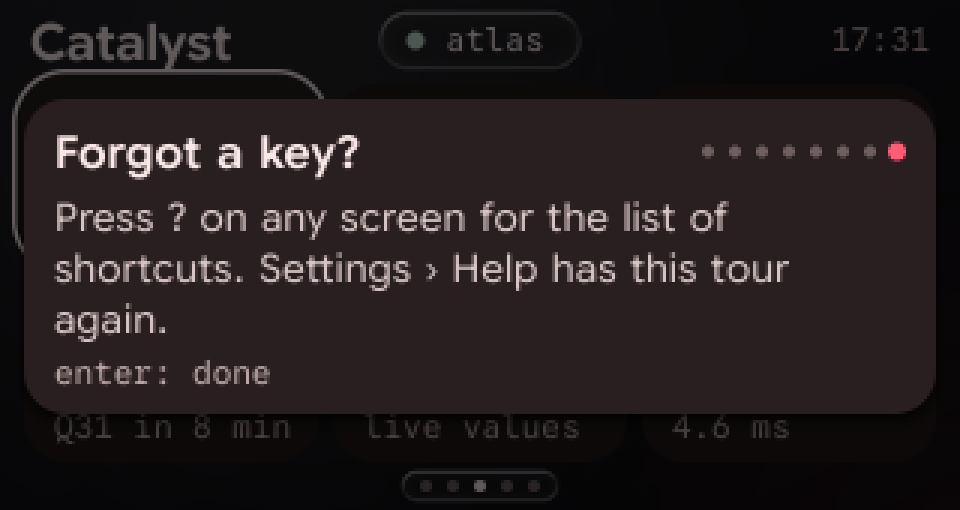
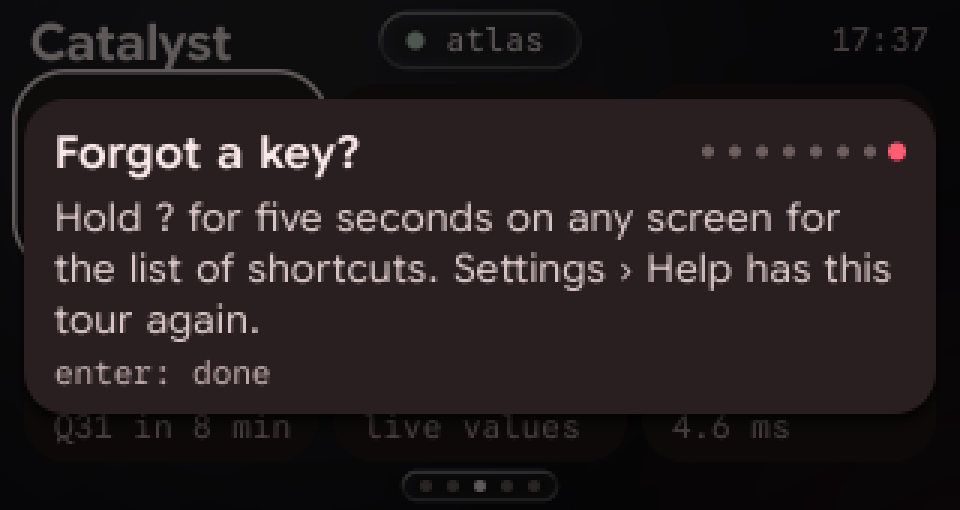
? opens the shortcut list only when held for five seconds
A ? typed in passing must never bring the list up. On a screen not taking
text, ? now does nothing unless it is held: a held key keeps coming as it
repeats, and once it has come without a break (no gap over 0.5 s) for five
seconds the list opens. From the first second the island counts down
("shortcuts in 3 s"), and the countdown goes if ? is let go early. Held
over the list itself, nothing more happens. Where text is typed (search, a
text field, the terminal) ? is only ever typed, held or not.

The tour, the shortcut list, Settings > Help and the README say so. The
hold is timed by the shell's own clock, and tested: a few quick ?s, three
seconds held, five held, held again over the list, and held in search.
Tests pass on Windows and as the ARM build.

diff --git a/userland/apps/shell/src/shell.rs b/userland/apps/shell/src/shell.rs
@@ -500,7 +500,28 @@ pub struct Shell {
     places: crate::help::Places,
     /// Developer options › Show key presses: the last few keys, and how long each has shown.
     echo: Vec<(String, f32)>,
+    /// The shell's own clock, in seconds, which `?` being held is timed by.
+    clock: f32,
+    /// `?` held on a screen not taking text: since when, when it last came
+    /// (a held key keeps coming, repeating), the countdown last said, and
+    /// whether the shortcut list has opened.
+    help_hold: Option<HelpHold>,
 }
+
+#[derive(Clone, Copy)]
+struct HelpHold {
+    since: f32,
+    last: f32,
+    said: u32,
+    opened: bool,
+}
+
+/// How long `?` is held to bring up the shortcut list, so a `?` typed in
+/// passing never does.
+const HOLD_FOR_SHORTCUTS: f32 = 5.0;
+/// A held key repeats; a gap longer than this means it was let go. (The
+/// first repeat comes 0.4 s after the press.)
+const HELD_GAP: f32 = 0.5;
 
 /// How long a key shown by Show key presses stays, the last part fading.
 const ECHO_SECONDS: f32 = 1.6;
@@ -585,7 +606,38 @@ impl Shell {
             tour_after: None,
             places: crate::help::Places::default(),
             echo: Vec::new(),
+            clock: 0.0,
+            help_hold: None,
         }
+    }
+
+    /// `?` came, on a screen not taking text. Held for five seconds, it
+    /// brings up the shortcut list; the island counts the last seconds
+    /// down. A `?` pressed and let go does nothing.
+    fn question_mark(&mut self) {
+        let now = self.clock;
+        let mut hold = match self.help_hold {
+            Some(h) if now - h.last <= HELD_GAP => HelpHold { last: now, ..h },
+            _ => HelpHold { since: now, last: now, said: 0, opened: false },
+        };
+        // Over the list itself, holding ? does nothing more.
+        if self.top_title() == "Shortcuts" {
+            hold.opened = true;
+        }
+        let held = now - hold.since;
+        if !hold.opened && held >= HOLD_FOR_SHORTCUTS {
+            hold.opened = true;
+            self.help_hold = Some(hold);
+            self.message = None;
+            return self.open(Box::new(crate::help::Shortcuts::new()), Path::Slide);
+        }
+        // Held a second or more: say what holding on will do.
+        let left = (HOLD_FOR_SHORTCUTS - held).ceil() as u32;
+        if !hold.opened && held >= 1.0 && left != hold.said {
+            hold.said = left;
+            self.say(format!("shortcuts in {left} s"));
+        }
+        self.help_hold = Some(hold);
     }
 
     /// Take the tour now, over whatever is showing (Home, after setup or from
@@ -792,12 +844,13 @@ impl Shell {
         if key == Key::Ctrl(' ') {
             return self.set_control(true);
         }
-        // ? brings the shortcut list up over any screen that is not taking
-        // text (in a terminal or a text field, it types).
+        // ? held for five seconds brings the shortcut list up over any
+        // screen that is not taking text (in a terminal or a text field, it
+        // types as ever).
         if key == Key::Char('?') {
             let (top, _) = self.stack.last().expect("the home screen is always there");
-            if !top.wants_text() && !top.full_screen() && top.title() != "Shortcuts" {
-                return self.open(Box::new(crate::help::Shortcuts::new()), Path::Slide);
+            if !top.wants_text() && !top.full_screen() {
+                return self.question_mark();
             }
         }
         // The living wallpaper: a move sets its light drifting the same way,
@@ -1119,6 +1172,15 @@ impl Shell {
 
     /// Advance time. Returns whether a frame should be drawn.
     pub fn tick(&mut self, dt: f32) -> bool {
+        self.clock += dt;
+        // `?` let go: its hold is over, and a countdown it left in the island goes.
+        if let Some(hold) = self.help_hold.filter(|h| self.clock - h.last > HELD_GAP) {
+            self.help_hold = None;
+            if !hold.opened && self.message.as_ref().is_some_and(|(text, _)| text.starts_with("shortcuts in")) {
+                self.message = None;
+                self.dirty = true;
+            }
+        }
         self.gfx.tick_gpu();
         self.watch_link(dt);
         // Motion only moves forward in time if it was already moving; slower
@@ -2530,21 +2592,50 @@ pub(crate) mod tests {
     }
 
     #[test]
-    fn question_mark_brings_up_the_shortcuts_except_where_it_types() {
+    fn question_mark_held_five_seconds_brings_up_the_shortcuts() {
         let mut shell = shell();
         frames(&mut shell, 30, FRAME);
-        shell.key(Key::Char('?'));
+        // Held, a key keeps coming: the first repeat 0.4 s in, then every
+        // 75 ms (here a little slower, every four frames).
+        let hold = |shell: &mut Shell, seconds: f32| {
+            shell.key(Key::Char('?'));
+            frames(shell, 24, FRAME);
+            let mut held = 0.4;
+            while held < seconds {
+                shell.key(Key::Char('?'));
+                frames(shell, 4, FRAME);
+                held += 4.0 * FRAME;
+            }
+        };
+        // Typed in passing, even a few at once: nothing at all.
+        for _ in 0..3 {
+            shell.key(Key::Char('?'));
+            frames(&mut shell, 40, FRAME);
+        }
+        assert_eq!(title(&shell), "Catalyst");
+        assert!(shell.message.is_none(), "not even a word");
+        // Held three seconds: not yet, but the island says what holding on will do.
+        hold(&mut shell, 3.0);
+        assert_eq!(title(&shell), "Catalyst");
+        assert!(shell.message.as_ref().is_some_and(|(m, _)| m == "shortcuts in 2 s" || m == "shortcuts in 3 s"), "{:?}", shell.message);
+        frames(&mut shell, 60, FRAME);
+        assert!(shell.message.is_none(), "let go, the countdown goes");
+        // Held five: the list.
+        hold(&mut shell, 5.3);
         frames(&mut shell, 60, FRAME);
         assert_eq!(title(&shell), "Shortcuts");
-        shell.key(Key::Char('?'));
+        // Held again over it: it stays, and no second list comes.
+        hold(&mut shell, 6.0);
         frames(&mut shell, 60, FRAME);
-        assert_eq!(title(&shell), "Catalyst", "? again puts it away");
-        // In search, ? is typed.
+        assert_eq!((title(&shell), shell.stack.len()), ("Shortcuts".to_owned(), 2));
+        shell.key(Key::Back);
+        frames(&mut shell, 60, FRAME);
+        assert_eq!(title(&shell), "Catalyst");
+        // Where text is typed, ? is typed, held or not.
         shell.key(Key::Char(' '));
         frames(&mut shell, 60, FRAME);
         let searching = title(&shell);
-        shell.key(Key::Char('?'));
-        frames(&mut shell, 60, FRAME);
+        hold(&mut shell, 5.5);
         assert_eq!(title(&shell), searching);
     }
 

diff --git a/userland/apps/shell/src/help.rs b/userland/apps/shell/src/help.rs
@@ -1,6 +1,6 @@
 //! Help: a tour of the keys, offered once after first-boot setup and always
-//! from Settings › Help, and the list of keyboard shortcuts, which `?` brings
-//! up over any screen that is not taking text.
+//! from Settings › Help, and the list of keyboard shortcuts, which `?` held
+//! for five seconds brings up over any screen that is not taking text.
 
 use bezel::{Align, Color, Rect};
 use detent::{role, Animated};
@@ -47,7 +47,7 @@ const STEPS: [Step; 8] = [
     Step { spot: Spot::Pager, title: "Pages", words: "Home turns its pages as you go. Left of the first app is the glance page: the robot and this handheld at a glance." },
     Step { spot: Spot::Nothing, title: "Control centre", words: "Ctrl Space brings it down over any screen: Wi-Fi, light mode, brightness. Up from Home's top row works too." },
     Step { spot: Spot::Nothing, title: "Search", words: "Space on Home searches the apps and settings. Just start typing." },
-    Step { spot: Spot::Nothing, title: "Forgot a key?", words: "Press ? on any screen for the list of shortcuts. Settings › Help has this tour again." },
+    Step { spot: Spot::Nothing, title: "Forgot a key?", words: "Hold ? for five seconds on any screen for the list of shortcuts. Settings › Help has this tour again." },
 ];
 
 /// How dark the screen goes behind the tour.
@@ -311,7 +311,7 @@ const SHORTCUTS: &[Line] = &[
     Line::Keys("Back", "esc"),
     Line::Keys("Leave any app", "esc held · ctrl q"),
     Line::Keys("Control centre", "ctrl space"),
-    Line::Keys("This list", "?"),
+    Line::Keys("This list, after 5 s", "? held"),
     Line::Head("home"),
     Line::Keys("Next or last app", "← →"),
     Line::Keys("Up and down a page", "↑ ↓"),
@@ -375,7 +375,7 @@ impl Screen for Shortcuts {
 
     fn key(&mut self, key: Key, _cx: &mut Cx) -> Nav {
         match key {
-            Key::Back | Key::Char('?') => Nav::Pop,
+            Key::Back => Nav::Pop,
             other => {
                 self.step(other);
                 Nav::Stay

diff --git a/userland/apps/shell/src/main.rs b/userland/apps/shell/src/main.rs
@@ -1030,7 +1030,17 @@ fn shots(mut shell: Shell, dir: &std::path::Path) {
     save(&mut shell, "39b-easter-egg-settled");
     press(&mut shell, &[Back, Back, Down, Down, Enter], 60);
     save(&mut shell, "40-licences");
-    press(&mut shell, &[Char('?')], 90);
+    // ? held for five seconds: it repeats as a held key does, and the island counts down.
+    shell.key(Char('?'));
+    settle(&mut shell, 24);
+    for i in 0..80 {
+        shell.key(Char('?'));
+        settle(&mut shell, 4);
+        if i == 40 {
+            save(&mut shell, "41a-hold-for-shortcuts");
+        }
+    }
+    settle(&mut shell, 90);
     save(&mut shell, "41-shortcuts");
     press(&mut shell, &[Down; 9], 20);
     save(&mut shell, "41b-shortcuts-home");

diff --git a/userland/apps/shell/src/screens.rs b/userland/apps/shell/src/screens.rs
@@ -2143,7 +2143,7 @@ impl SettingsApp {
             About => section("About", crate::sysupdate::version()),
             Help => section("Help", "tour · keys".to_owned()),
             TakeTour => ("Take the tour".into(), "›".into(), true),
-            KeyboardShortcuts => ("Keyboard shortcuts".into(), "? ›".into(), true),
+            KeyboardShortcuts => ("Keyboard shortcuts".into(), "›".into(), true),
             DeveloperSection => section("Developer options", "on".to_owned()),
             DevMode => ("Use developer options".into(), onoff(g.developer), g.developer),
             MotionScale => (

diff --git a/README.md b/README.md
@@ -75,9 +75,10 @@ Cardputer) move, Enter opens, Esc goes back. On Home, Left and Right go
 through the apps in order (on to the next row, and the next page), Up and
 Down within a page. Space on Home searches.
 Ctrl-Space brings the control centre down over any screen; Left from Home's
-first tile is the glance page. `?` on any screen that is not taking text
-brings up the list of shortcuts. The window shows what the panel shows:
-16-bit colour, dithered as on the device.
+first tile is the glance page. `?` held for five seconds on any screen that
+is not taking text brings up the list of shortcuts (the island counts down
+from the first second; a `?` typed in passing does nothing). The window
+shows what the panel shows: 16-bit colour, dithered as on the device.
 
 A held key repeats on the shell's own clock, the same on the handheld and in
 the simulator: once as it lands, then after 0.4 s about 13 times a second,
@@ -107,8 +108,10 @@ one large unit, which Rust 1.92 on Windows fails to compile.
   screen dims, a spotlight glides to each thing in turn (the apps, the
   island, the page dots) and a card says what it is and what the keys do.
   Enter goes on, Left goes back, Esc skips it.
-- **Shortcuts.** `?` over any screen not taking text, or Settings › Help ›
-  Keyboard shortcuts: every key by where it works, drawn as keycaps.
+- **Shortcuts.** `?` held for five seconds over any screen not taking text,
+  or Settings › Help › Keyboard shortcuts: every key by where it works,
+  drawn as keycaps. Where text is typed (search, a text field, the
+  terminal), `?` is only ever typed.
 - **About**, laid out as Android's "About phone": the handheld's name large
   at the top with Catalyst's icon (the header folds away as the list goes
   down), its model, the Catalyst Linux version (a page of its own: channel,
